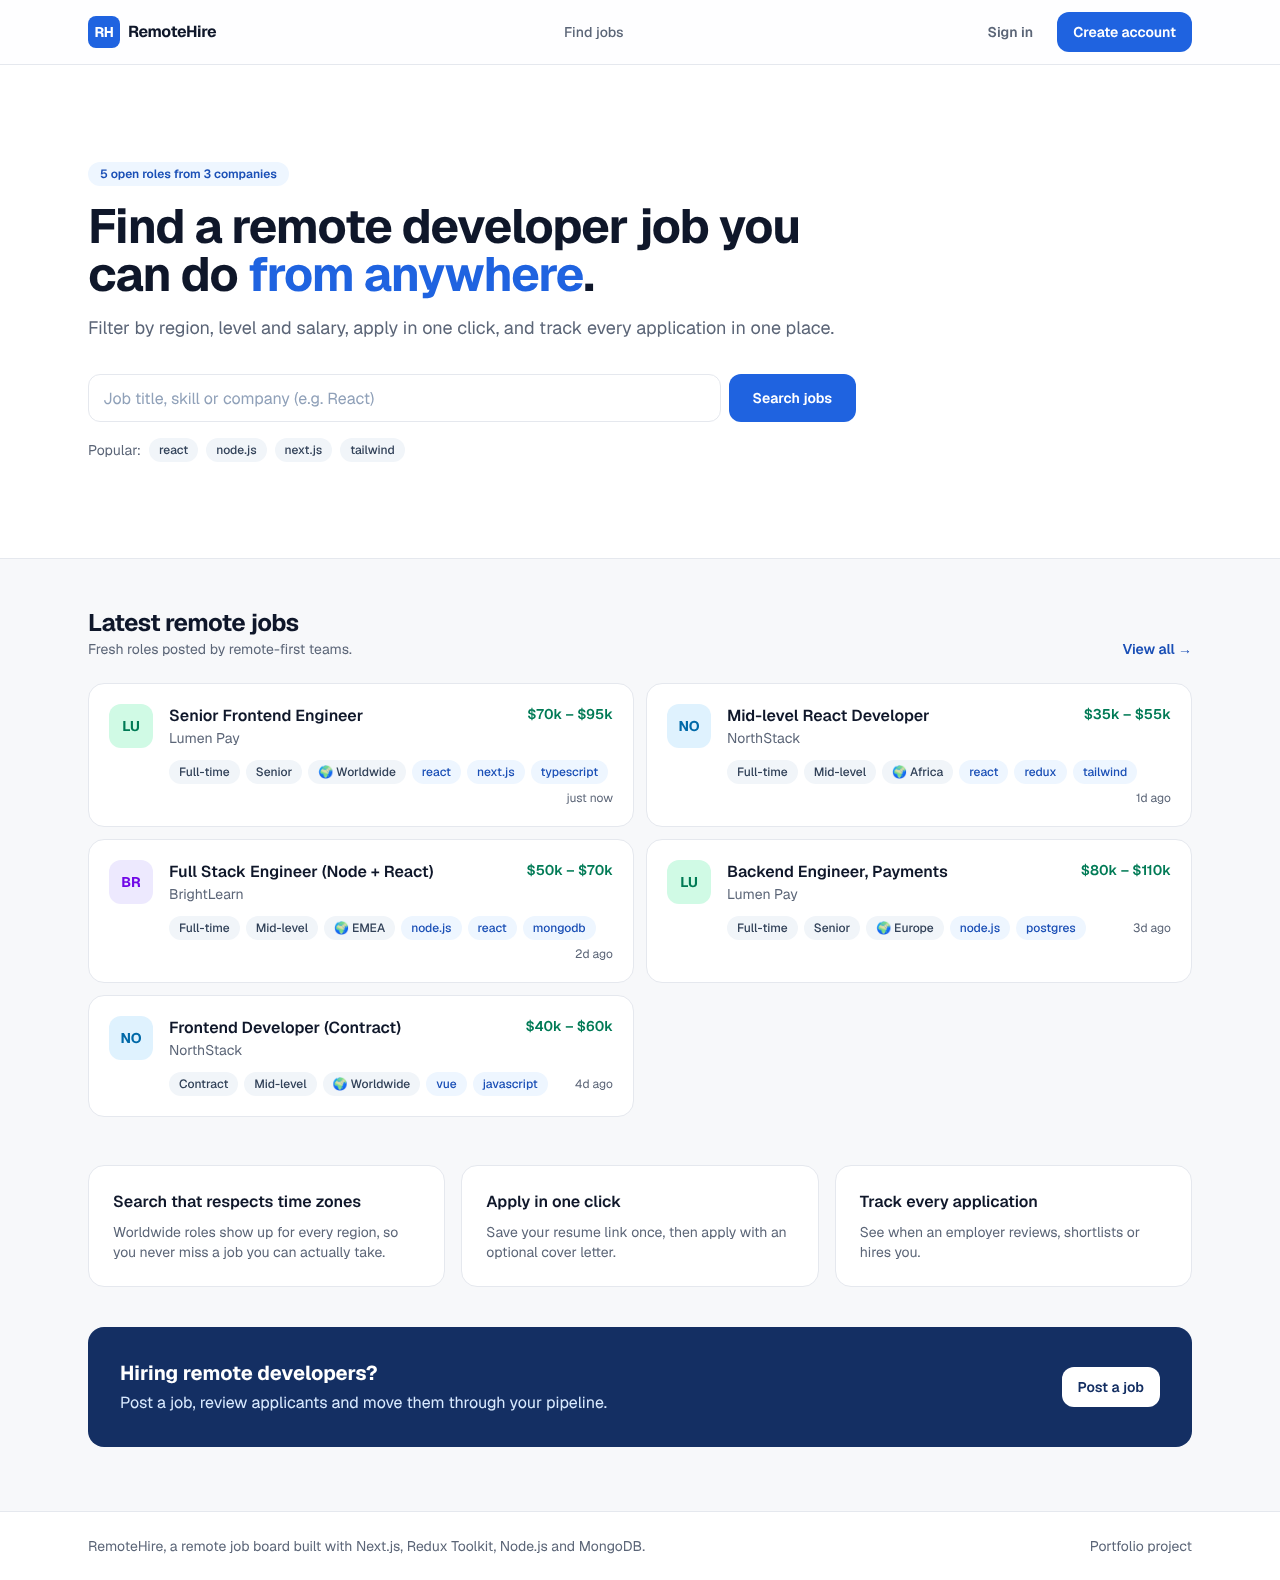
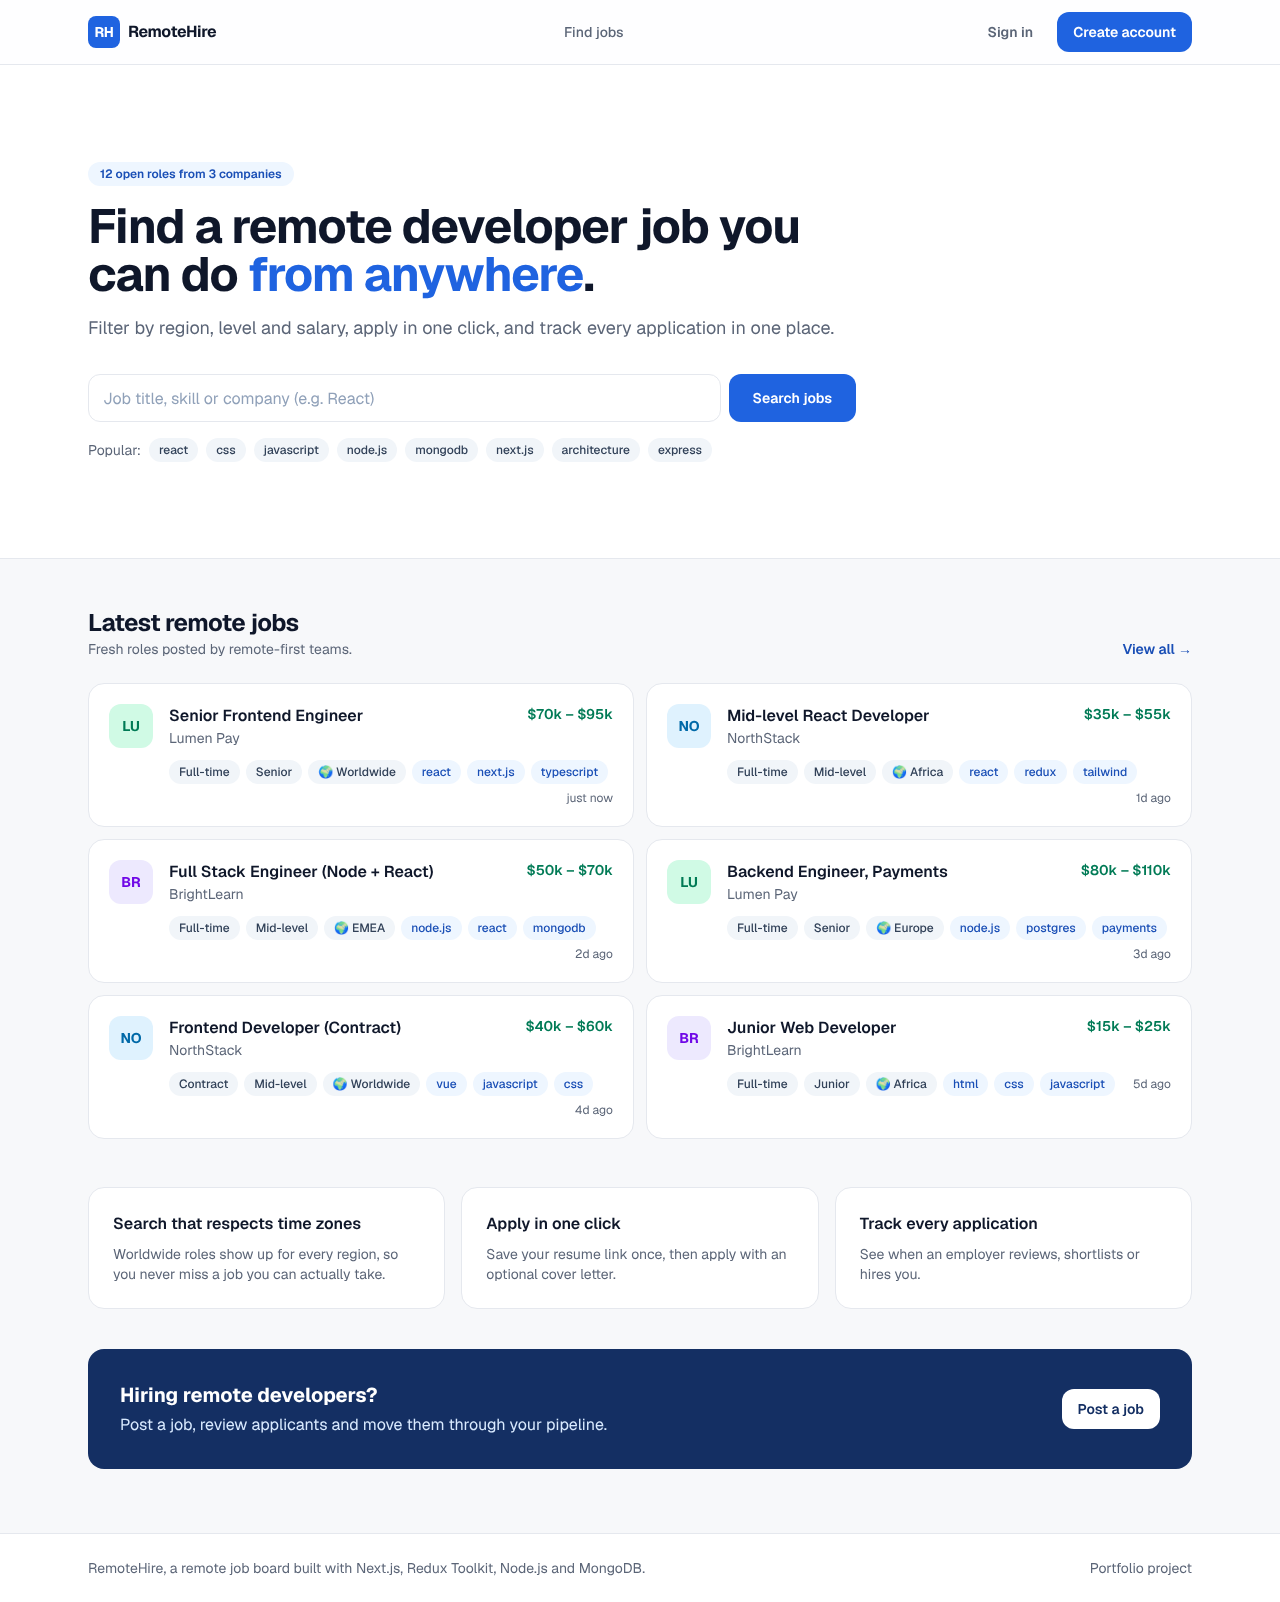
Run tests against an external MongoDB, richer seed data, real screenshots
Claude-Session: https://claude.ai/code/session_01EB5SAiDzdT5x32FD4THX6u

diff --git a/server/src/scripts/seed.js b/server/src/scripts/seed.js
@@ -70,14 +70,24 @@ async function seed() {
     })
   );
 
-  const [demo] = candidateDocs;
+  const [demo, tolu] = candidateDocs;
   const applications = [
-    { job: jobs[1], status: 'reviewing' },
-    { job: jobs[2], status: 'shortlisted' },
-    { job: jobs[7], status: 'submitted' },
+    { who: demo, job: jobs[0], status: 'submitted' },
+    { who: demo, job: jobs[1], status: 'reviewing' },
+    { who: demo, job: jobs[2], status: 'shortlisted' },
+    { who: demo, job: jobs[7], status: 'submitted' },
+    { who: tolu, job: jobs[0], status: 'shortlisted' },
+    { who: tolu, job: jobs[3], status: 'reviewing' },
   ];
-  for (const { job, status } of applications) {
-    await Application.create({ job: job._id, candidate: demo._id, employer: job.employer, resumeUrl: demo.resumeUrl, coverLetter: 'I would love to join your team.', status });
+  for (const { who, job, status } of applications) {
+    await Application.create({
+      job: job._id,
+      candidate: who._id,
+      employer: job.employer,
+      resumeUrl: who.resumeUrl,
+      coverLetter: `Hi ${job.companyName} team, I have spent the last few years building React and Node.js products for remote teams, and I would love to bring that experience to this role.`,
+      status,
+    });
     await Job.updateOne({ _id: job._id }, { $inc: { applicationsCount: 1 } });
   }
   demo.savedJobs = [jobs[0]._id, jobs[11]._id];

diff --git a/server/tests/setup.js b/server/tests/setup.js
@@ -8,8 +8,13 @@ process.env.JWT_SECRET = 'test-secret';
 let mongo;
 
 beforeAll(async () => {
-  mongo = await MongoMemoryServer.create();
-  await mongoose.connect(mongo.getUri());
+  // Use an existing MongoDB when MONGO_URI_TEST is set, otherwise start an in-memory one.
+  let uri = process.env.MONGO_URI_TEST;
+  if (!uri) {
+    mongo = await MongoMemoryServer.create();
+    uri = mongo.getUri();
+  }
+  await mongoose.connect(uri, { dbName: `remotehire_test_${process.pid}` });
 });
 
 afterEach(async () => {
@@ -18,6 +23,7 @@ afterEach(async () => {
 });
 
 afterAll(async () => {
+  if (process.env.MONGO_URI_TEST) await mongoose.connection.dropDatabase();
   await mongoose.disconnect();
   await mongo?.stop();
 });
